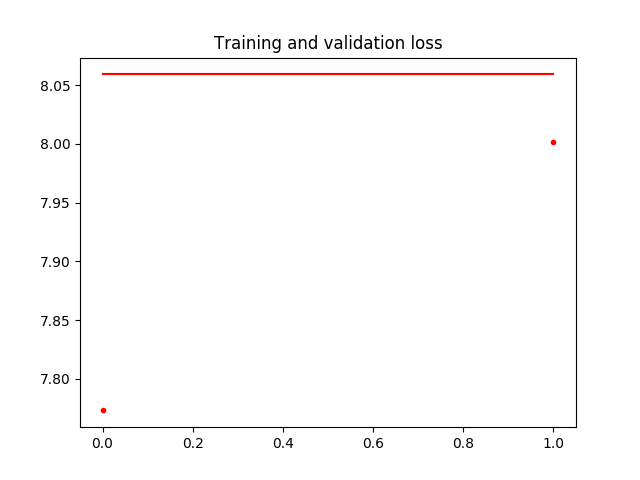
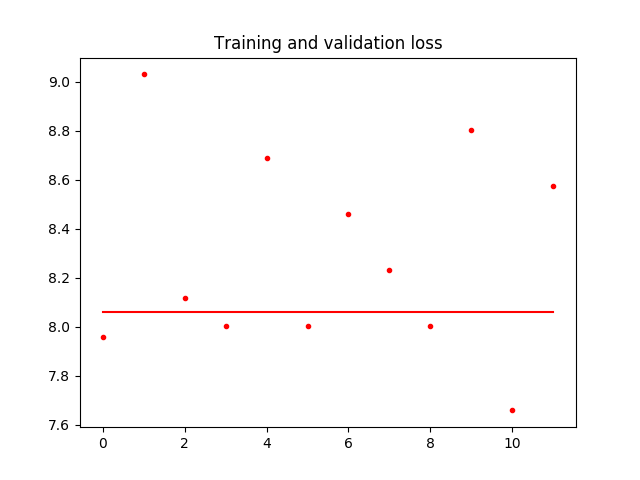
demo metrics

diff --git a/transfer_learning/fine-tune.py b/transfer_learning/fine-tune.py
@@ -7,13 +7,14 @@ import matplotlib.pyplot as plt
 from keras import __version__
 from keras.applications.inception_v3 import InceptionV3, preprocess_input
 from keras.models import Model
-from keras.layers import Dense, GlobalAveragePooling2D
+from keras.layers import Dropout, Flatten, Dense, GlobalAveragePooling2D
 from keras.preprocessing.image import ImageDataGenerator
 from keras.optimizers import SGD
+from keras.callbacks import ModelCheckpoint, LearningRateScheduler, TensorBoard, EarlyStopping
 
 
 IM_WIDTH, IM_HEIGHT = 299, 299 #fixed size for InceptionV3
-NB_EPOCHS = 10
+NB_EPOCHS = 32
 BAT_SIZE = 32#5000
 FC_SIZE = 1024
 NB_IV3_LAYERS_TO_FREEZE = 172
@@ -34,7 +35,9 @@ def setup_to_transfer_learn(model, base_model):
   """Freeze all layers and compile the model"""
   for layer in base_model.layers:
     layer.trainable = False
+  
   model.compile(optimizer='rmsprop', loss='categorical_crossentropy', metrics=['accuracy'])
+  #model.compile(optimizer='adam', loss='categorical_crossentropy', metrics=['accuracy'])
 
 
 def add_new_last_layer(base_model, nb_classes):
@@ -48,8 +51,12 @@ def add_new_last_layer(base_model, nb_classes):
     new keras model with last layer
   """
   x = base_model.output
-  x = GlobalAveragePooling2D()(x)
-  x = Dense(FC_SIZE, activation='relu')(x) #new FC layer, random init
+  #x = GlobalAveragePooling2D()(x)
+  #x = Dense(FC_SIZE, activation='relu')(x) #new FC layer, random init
+  x = Flatten()(x)
+  x = Dense(FC_SIZE, activation="relu")(x)
+  x = Dropout(0.5)(x)
+  x = Dense(FC_SIZE, activation="relu")(x)  
   predictions = Dense(nb_classes, activation='softmax')(x) #new softmax layer
   model = Model(input=base_model.input, output=predictions)
   return model
@@ -67,7 +74,9 @@ def setup_to_finetune(model):
      layer.trainable = False
   for layer in model.layers[NB_IV3_LAYERS_TO_FREEZE:]:
      layer.trainable = True
+  
   model.compile(optimizer=SGD(lr=0.0001, momentum=0.9), loss='categorical_crossentropy', metrics=['accuracy'])
+  #model.compile(optimizer='adam', loss='categorical_crossentropy', metrics=['accuracy'])
 
 
 def train(args):
@@ -82,21 +91,25 @@ def train(args):
   # data prep
   train_datagen =  ImageDataGenerator(
       preprocessing_function=preprocess_input,
-      rotation_range=30,
+      rescale = 1./255,
+      rotation_range=10,
       #width_shift_range=0.2,
       #height_shift_range=0.2,
       shear_range=0.2,
       zoom_range=0.2,
-      horizontal_flip=True
+      horizontal_flip=True,
+      fill_mode = "reflect"
   )
   test_datagen = ImageDataGenerator(
       preprocessing_function=preprocess_input,
-      rotation_range=30,
+      rescale = 1./255,
+      rotation_range=10,
       #width_shift_range=0.2,
       #height_shift_range=0.2,
       shear_range=0.2,
       zoom_range=0.2,
-      horizontal_flip=True
+      horizontal_flip=True,
+      fill_mode = "reflect"
   )
 
   train_generator = train_datagen.flow_from_directory(
@@ -116,7 +129,7 @@ def train(args):
   )
 
   # setup model
-  base_model = InceptionV3(weights='imagenet', include_top=False) #include_top=False excludes final FC layer
+  base_model = InceptionV3(weights='imagenet', include_top=False, input_shape=(IM_WIDTH, IM_HEIGHT, 3)) #include_top=False excludes final FC layer
   model = add_new_last_layer(base_model, nb_classes)
 
   # transfer learning
@@ -128,7 +141,7 @@ def train(args):
     train_generator,
     #nb_epoch=nb_epoch,    
     epochs=nb_epoch,
-    #samples_per_epoch=nb_train_samples,
+    samples_per_epoch=nb_train_samples,
     steps_per_epoch=nb_train_samples // batch_size,
     validation_data=validation_generator,
     #nb_val_samples=nb_val_samples,
@@ -137,17 +150,23 @@ def train(args):
 
   # fine-tuning
   setup_to_finetune(model)
+  
+  # Save the model according to the conditions  
+  checkpoint = ModelCheckpoint('__'+args.output_model_file, monitor='val_acc', verbose=1, save_best_only=True, save_weights_only=False, mode='auto', period=1)
+  early = EarlyStopping(monitor='val_acc', min_delta=0, patience=10, verbose=1, mode='auto')
+
 
   history_ft = model.fit_generator(
     train_generator,
     #nb_epoch=nb_epoch,    
     epochs=nb_epoch,
-    #samples_per_epoch=nb_train_samples,
+    samples_per_epoch=nb_train_samples,
     steps_per_epoch=nb_train_samples // batch_size,
     validation_data=validation_generator,
     #nb_val_samples=nb_val_samples,
     validation_steps=nb_val_samples // batch_size,
-    class_weight='auto')
+    class_weight='auto',
+    callbacks = [early])
 
   model.save(args.output_model_file)
 
@@ -194,4 +213,7 @@ if __name__=="__main__":
     sys.exit(1)
 
   train(args)
+  
+#Revisar: https://medium.com/towards-data-science/transfer-learning-using-keras-d804b2e04ef8
+
 

diff --git a/demo/training.py b/demo/training.py
@@ -3,8 +3,9 @@ from keras.layers import Conv2D, MaxPooling2D
 from keras.layers import Dense, Activation, Dropout, Flatten
 from keras.preprocessing.image import ImageDataGenerator, array_to_img, load_img
 #from keras.applications import imagenet_utils
+import matplotlib.pyplot as plt
 
-#Formato de las imágenes de entrada
+#Formato de las imagenes de entrada
 input_shape=(150, 150, 3)
 
 #Construye un modelo secuencial
@@ -35,8 +36,8 @@ model.compile(loss='binary_crossentropy', #binario pues solo hay dos clases
               optimizer='rmsprop',
               metrics=['accuracy'])
 
-#Pocas épocas para que ejecute en un CPU
-n_epochs = 2 #se puede incrementar a 100 o más si se tienen varios CUDA Cores
+#Pocas epocas para que ejecute en un CPU
+n_epochs = 32 #se puede incrementar a 100 o mas si se tienen varios CUDA Cores
 batch_size = 16
 
 # this is the augmentation configuration we will use for training
@@ -74,14 +75,31 @@ for attr, value in validation_generator.__dict__.iteritems():
 '''
 
 #Entrena el algoritmo
-model.fit_generator(
+history_fg = model.fit_generator(
         train_generator,
         steps_per_epoch=2000 // batch_size,
         epochs=n_epochs,
         validation_data=validation_generator,
         validation_steps=800 // batch_size)
 
+
+acc = history_fg.history['acc']
+val_acc = history_fg.history['val_acc']
+loss = history_fg.history['loss']
+val_loss = history_fg.history['val_loss']
+epochs = range(len(acc))
+
+plt.plot(epochs, acc, 'r.')
+plt.plot(epochs, val_acc, 'r')
+plt.title('Training and validation accuracy')
+plt.savefig('accuracy.png')
+
+plt.figure()
+plt.plot(epochs, loss, 'r.')
+plt.plot(epochs, val_loss, 'r-')
+plt.title('Training and validation loss')
+plt.savefig('loss.png')
+
+
 #Guarda los pesos
-model.save_weights('first_try.h5')  # always save your weights after training or during training
-
-
+model.save_weights('_first_try.h5')  # always save your weights after training or during training
